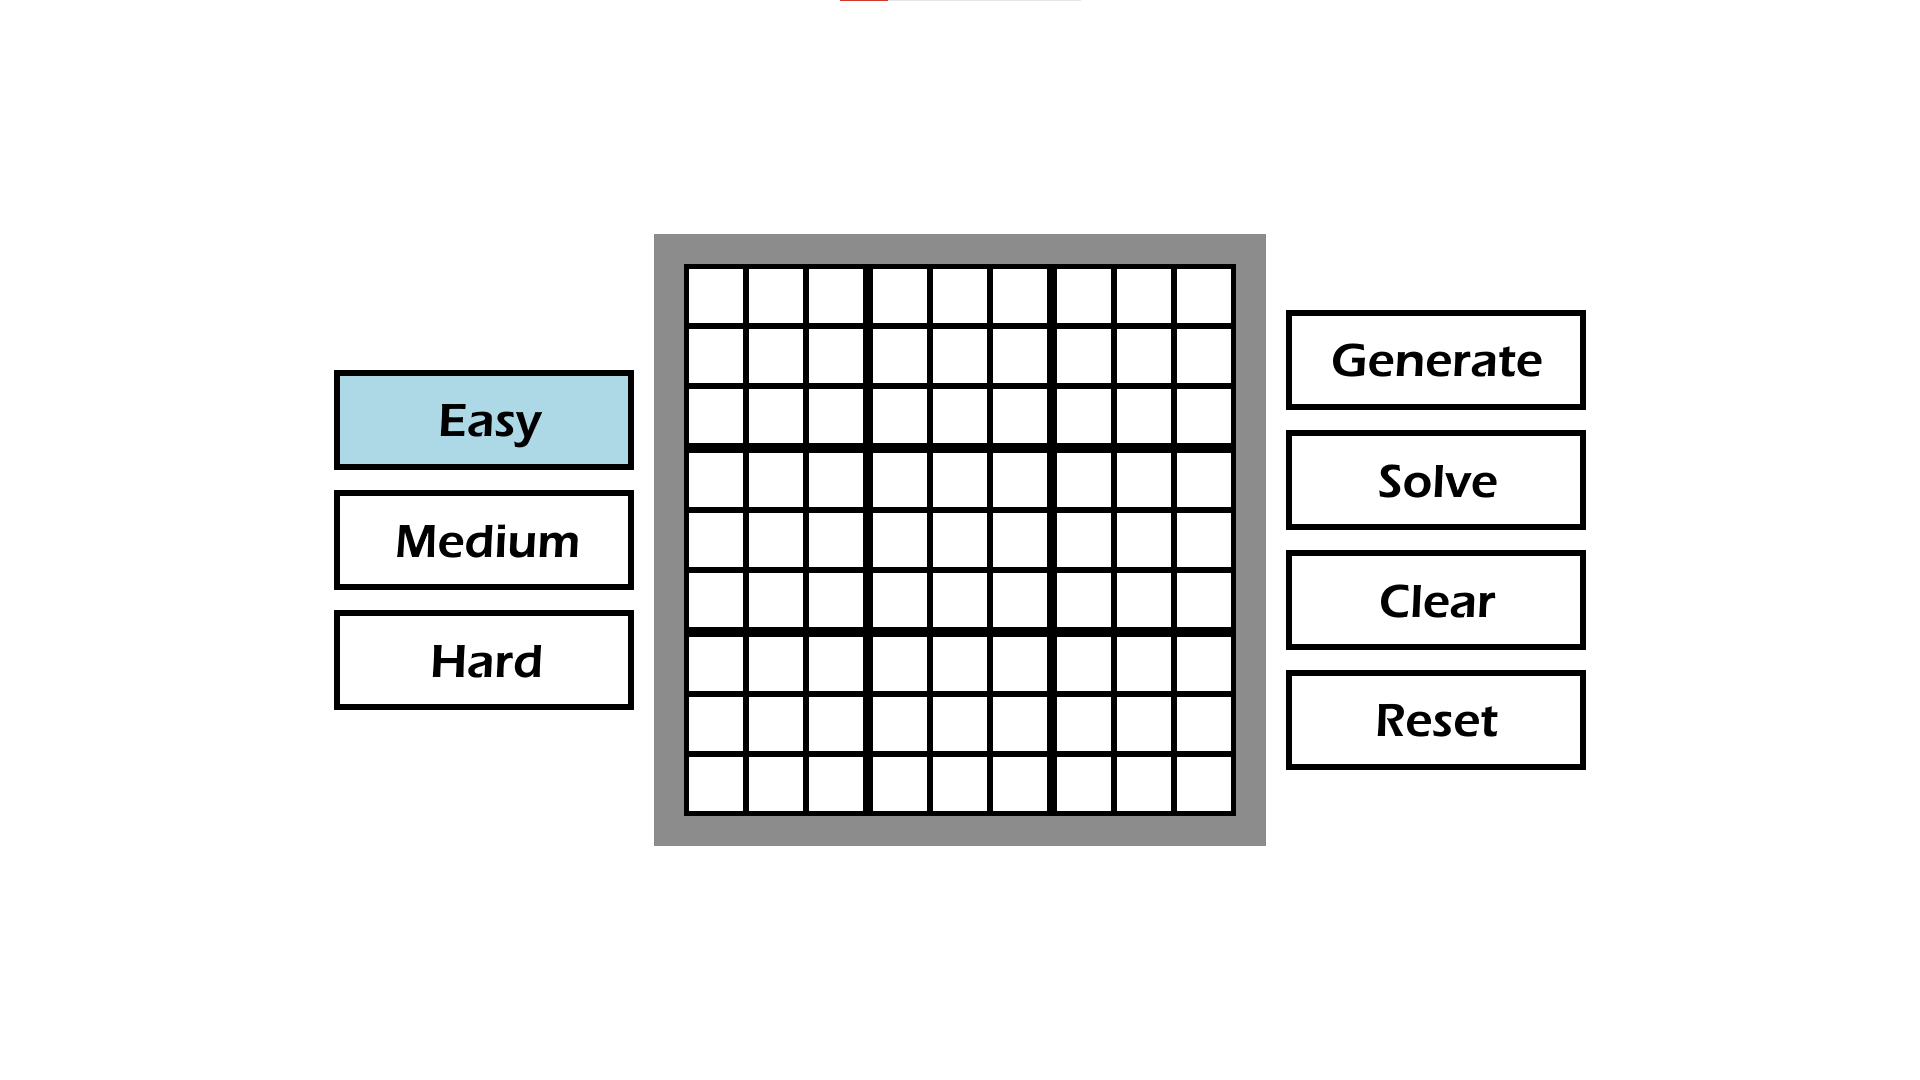
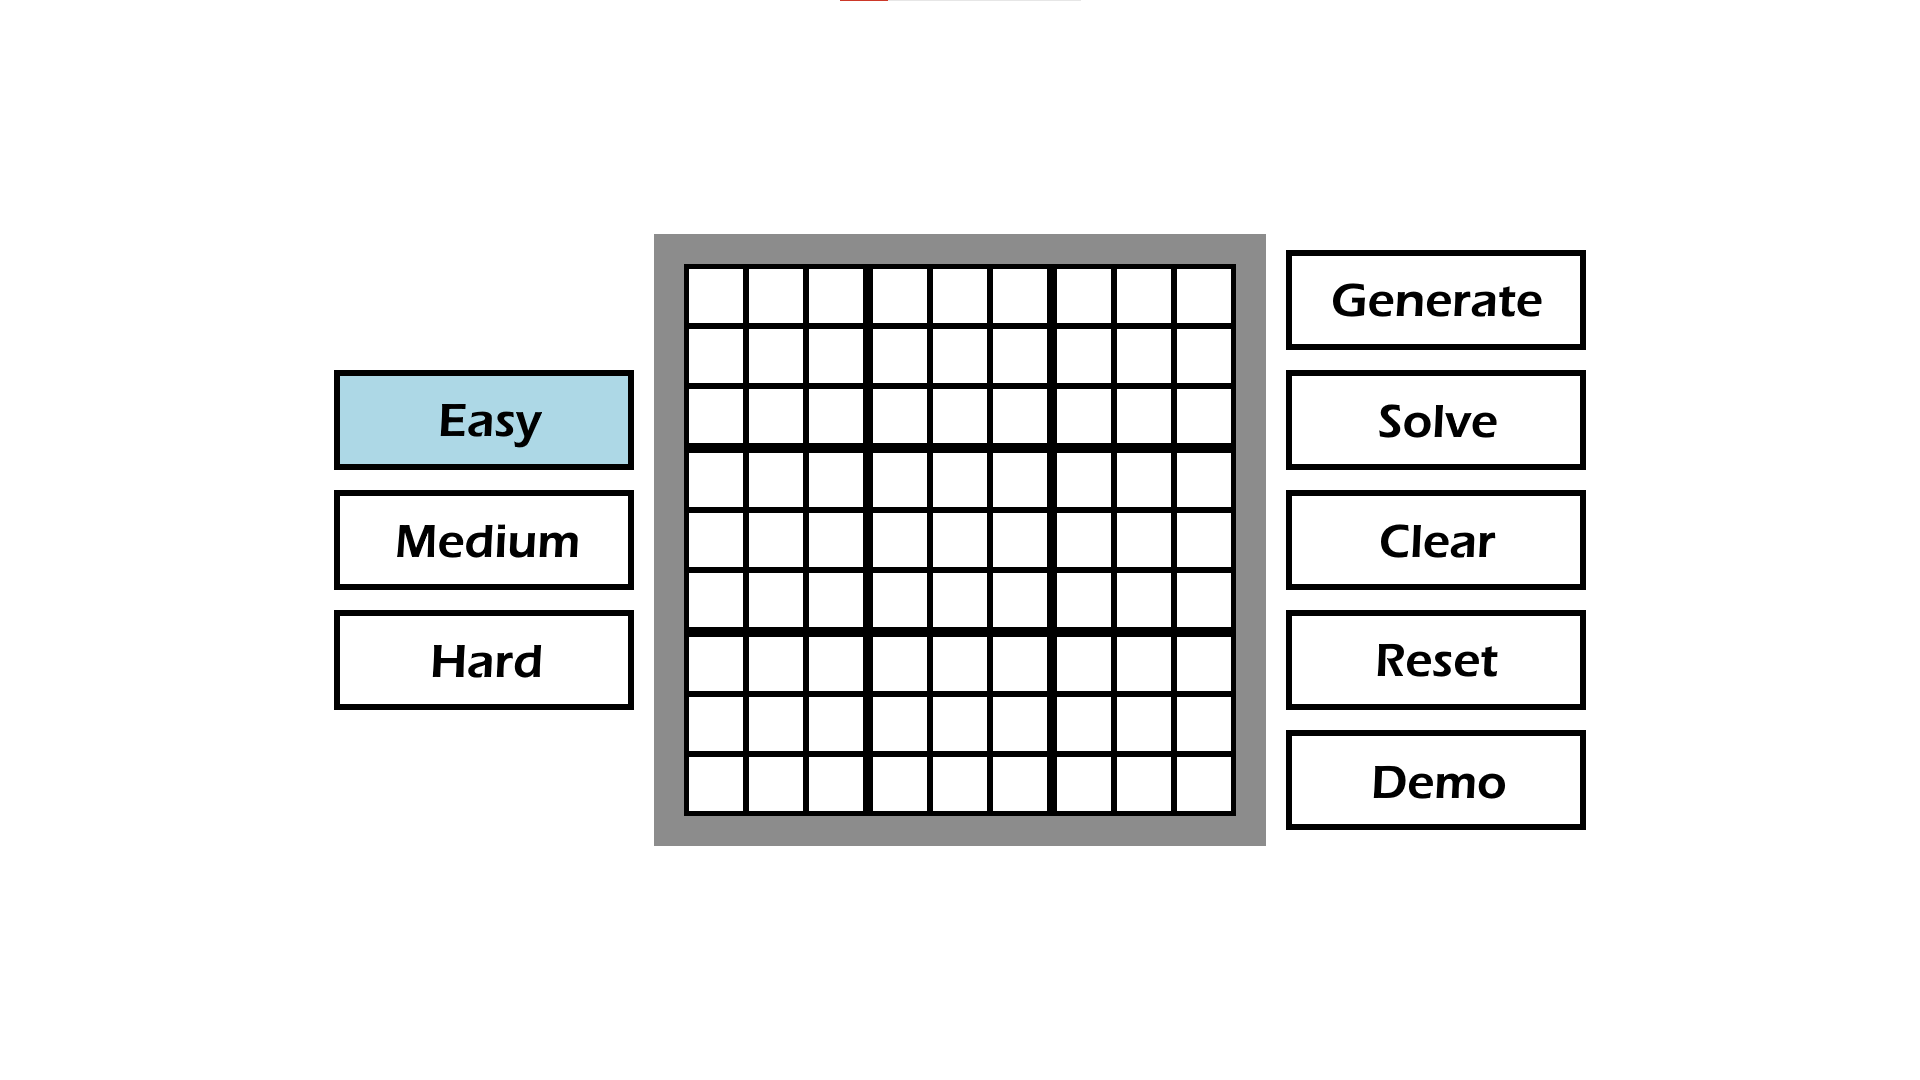
readme update

Changed region(s): [[0.6562, 0.2139, 0.8438, 0.7944]]

diff --git a/README.md b/README.md
@@ -38,14 +38,17 @@ The menu room is the gateway of the application, leading the user to where it wa
 <img src=./images/screenshot_menu.png width="400"><br><br>
 The menu currently contains:
 <ul style="list-style-type: disc; padding-left: 1em;">
-  <li style="margin-bottom: 0;">The Play button leads to the game room where the user may play sudoku and use the Sudoku Visualization Algorithm to solve what is left of the puzzle.</li>
-  <li style="margin-bottom: 0;">The Demo button also leads to the game room, but with a preset puzzle which is used to present the Sudoku Visualization Algorithm.</li>
+  <li style="margin-bottom: 0;">The Play button leads to the game room where the user may play sudoku and use the Sudoku Solving Algorithm to solve what is left of the puzzle.</li>
+  <li style="margin-bottom: 0;">The Demo button also leads to the game room, but with a preset puzzle which is used to present the Sudoku Solving Algorithm.</li>
   <li style="margin-bottom: 0;">The Settings button leads to the settings room.</li>
 </ul>
 
 ### Game
 In the game room one gets directly to the sudoku board with difficulty options to the left and functional buttons to the right.<br><br>
-<img src=./images/screenshot_game_empty.png width="400"><br><br>
+<img src=./images/screenshot_game_empty.png width="400"><br>
+<img src=./images/screenshot_game_hard_empty.png width="400"><br>
+<img src=./images/screenshot_game_hard_solved.png width="400"><br>
+<img src=./images/screenshot_game_manual_solved.png width="400"><br><br>
 The difficulty options are represented as radio buttons, and each difficulty represents a given amount of hints.
 <ul style="list-style-type: disc; padding-left: 1em;">
   <li style="margin-bottom: 0;">Easy → 45</li>
@@ -56,14 +59,11 @@ The difficulty options are represented as radio buttons, and each difficulty rep
 And on the right side there are functional buttons:
 <ul style="list-style-type: disc; padding-left: 1em;">
   <li style="margin-bottom: 0;">Generate: makes a new randomized puzzle with hints according to the current difficulty.</li>
-  <li style="margin-bottom: 0;">Solve: starts the Sudoku Visualization Algorithm from given point in the puzzle.</li>
+  <li style="margin-bottom: 0;">Solve: starts the Sudoku Solving Algorithm from given point in the puzzle.</li>
   <li style="margin-bottom: 0;">Clear: removes all non-generated values from the board.</li>
   <li style="margin-bottom: 0;">Reset: removes all values from the board.</li>
+  <li style="margin-bottom: 0;">Demo: runs the Sudoku Solving Algorithm on a preset puzzle.</li>
 </ul>
-
-
-### Demo
-_Coming soon..._
 
 ### Settings
 Settings room is the place for adjusting variables to either fit the specific computer environment, or further the user experience.<br><br>
